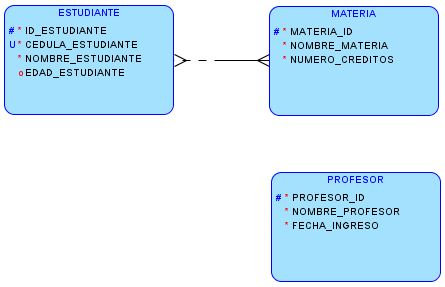
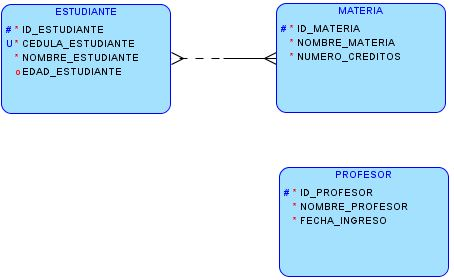
Update guide, Save and Open projects

Changed region(s): [[0.0, 0.0, 0.964, 0.4286], [0.5843, 0.5714, 0.9933, 1.0], [0.6135, 0.0, 0.9933, 0.4]]

diff --git a/README.md b/README.md
@@ -94,13 +94,14 @@ Al finalizar la guía, se espera que los estudiantes se encuentren en la capacid
     El tipo de origen *VARCHAR*  depliega los campos *Tamaño y Unidades*.
     Digite `10` como tamaño y seleccione  *CHAR* en las unidades. De esta forma, estamos declarando que la `CEDULA_ESTUDIANTE` tendrá máximo 10 caracteres.
 
-    A continuación, abra la pestaña *Identificadores Únicos* del frame de la izquierda. En esta pestaña se muestran los atributos únicos de la entidad, aquí se encuentra ya una clave única con nombre es "Estudiante PK" la cual hace referencia a la clave primaria previamente agregada.
-    Para agregar el atributo de cédula como una clave única se debe seleccionar la opción '+' y hacer doble clic en el nuevo item que se agregó a la lista el cual tiene por defecto el nombre de "Key 2", esto despliega un submenú donde se debe definir cuáles atributos harán parte de esta nueva clave única de la entidad.
-    Para agregar la cédula, se debe hacer clic sobre este atributo y posteriormente hacer clic en la flecha derecha, esto debe verse como lo muestra la siguiente figura.
+    A continuación, abra la pestaña *Identificadores Únicos* del frame de la izquierda. En esta pestaña se muestran los atributos únicos de la entidad, aquí se encuentra ya una clave única con nombre es "Estudiante PK" la cual hace referencia a la clave primaria previamente agregada, es decir, al atributido identificador.
+    Para crear una nueva clave única se debe seleccionar la opción '+', esto genera un nuevo item en la lista de claves únicas el cual tendrá por defecto el nombre de "Key 2", al hacer doble clic sobre este item se despliega un submenú donde se debe definir cuáles atributos harán parte de esta nueva clave única de la entidad.
+    Para agregar el atributo de cédula a esta nueva clave única, se debe hacer clic sobre este atributo y posteriormente hacer clic en la flecha derecha, moviendolo de la lista de la izquierda a la lista de la derecha, esto finalmente debe verse como lo muestra la siguiente figura. 
+    Aplicar los cambios.
 
     ![Alt text](images/EstudianteCedulaUnica.JPG?raw=true "Cedula Estudiante Unica")
 
-    En este momento el nuevo identificador único ya ha sido creado con el nombre "Key_2", para cambiarlo dirigirse a la pestaña *General* sobre este mismo submenú. 
+    En este momento el nuevo identificador único ya ha sido creado con el nombre "Key_2", para cambiarlo dirigirse a la pestaña *General* sobre este mismo submenú. Se sugiere el nombre de `CEDULA_UK`.
     
     > Ahora, usted deberá agregar dos nuevos atributos a la entidad `ESTUDIANTE`.  Estos atributos permiten al sistema almacenar el nombre y la edad de los estudiantes, el nombre debe ser obligatorio mientras que la edad no.
 
@@ -110,31 +111,64 @@ Al finalizar la guía, se espera que los estudiantes se encuentren en la capacid
 
   * **Relación**
 
-    Una relación es una asociación que existe entre dos entidades, una de ellas denominada como entidad origen y la otra como entidad destino, para cada entidad existe una cardinalidad. La cardinalidad define el número de ocurrencias que pueden existir de la entidad destino dada una sola ocurrencia de la entidad origen. La cardinalidad puede tomar los valores de 1:1 (uno a uno), de 1:N (1 a muchos) o de N:M (muchos a muchos). Una relación puede ser identificante o no, una relación identificante finalmente es mapeada al identificador primario de la entidad destino.
+    Una relación es una asociación que existe entre dos entidades, una de ellas denominada como entidad origen y la otra como entidad destino, para cada entidad de la relación existe una cardinalidad.La cardinalidad define el número de ocurrencias que pueden existir de la entidad destino dada una sola ocurrencia de la entidad origen. La cardinalidad puede tomar los valores de 1:1 (uno a uno), de 1:N (1 a muchos) o de N:M (muchos a muchos). 
+    Una relación puede ser identificante o no. Las relaciones identificantes finalmente son mapeada al identificador primario de la entidad destino.
 
-    > Se pide al estudiante que cree una nueva entidad para que el sistema pueda almacenar las materias que el estudiante podrá matricular, una materia tiene su identificador, un nombre y un número de creditos, siendo todos estos obligatorios. Una vez hecho esto se espera tener lo siguiente:
+    > Se pide al estudiante que cree una nueva entidad para que el sistema pueda almacenar las materias que el estudiante podrá matricular, una materia tiene su identificador, un nombre y un número de creditos, siendo todos estos obligatorios. La siguiente figura ilustra el cómo debería verse la entidad `MATERIA`.
 
     ![Alt text](images/EstudianteMateria.JPG?raw=true "Entidades Estudiante y Materia")
 
-    El sistema también require registrar en su base de datos las materias que están cursando los estudiantes, dado a que un estudiante puede cursar muchas materias y que una materia puede ser cursada por muchos estudiantes, la relación entre ambas entidades es N:M. Para crear una relación N:M se debe hacer clic en la opción de *Nueva Relación N:M* del menú de herramientas del modelo lógico, luego hacer clic sobre la entidad origen y finalmente otro clic sobre la entidad destino, abriendo de esta manera un menú donde se solicita el nombre de la relación entre ambas entidades, ingresar `ESTUDIANTE_MATERIA`, por conveniencia, el nombre de las relaciones se puede generar mediante la concatenación del nombre de ambas entidades. Una vez aceptados los cambios, se logra crear la relación entre Estudiante y Materia observando lo siguiente.
+    El sistema también require registrar en su base de datos las materias que están cursando los estudiantes, dado a que un estudiante puede cursar muchas materias y que una materia puede ser cursada por muchos estudiantes, la relación entre ambas entidades es N:M.
+    Para crear una relación N:M se debe hacer clic en la opción de *Nueva Relación N:M* del menú de herramientas del modelo lógico, luego hacer clic sobre la entidad origen y finalmente otro clic sobre la entidad destino, abriendo de esta manera un menú donde se solicita el nombre de la relación entre ambas entidades, ingresar `ESTUDIANTE_MATERIA`. Por conveniencia, el nombre de las relaciones se puede generar mediante la concatenación del nombre de ambas entidades. Una vez aceptados los cambios, se logra crear la relación entre Estudiante y Materia como lo muestra la siguiente figura.
 
     ![Alt text](images/RelacionEstudMateria.JPG?raw=true "Relación Estudiante y Materia")
 
-    > Se pide ahora al estudiante que cree una nueva entidad que le permita al sistema almacenar los profesores para poder registrar las materias que estos imparten, se sabe que una materia es impartida por un solo profesor, del profesor se solicita almancenar su nombre y fecha en la que ingresó al sistema. Una vez creada la entidad Profesor se espera tener lo siguiente.
+    > Se pide ahora al estudiante que cree una nueva entidad que le permita al sistema almacenar los profesores para poder registrar las materias que estos imparten, se sabe que una materia es impartida por un solo profesor, del profesor se solicita almancenar su nombre y fecha en la que ingresó al sistema. Una vez creada la entidad `PROFESOR` se espera tener lo siguiente.
 
     ![Alt text](images/ProfesorAgregado.JPG?raw=true "Entidades Profesor")
 
-    A diferencia de la anterior relación, una materia es impartida por solo un profesor, por tanto la relación que se debe agregar es una relación 1:N de Materia a Profesor, para ello se hace el mismo procedimiento de la relación anterior solo que en esta ocasión mediante la opción *Nueva Relación 1:N*. Al finalizar lo anterior, se obtiene lo siguiente.
+    A diferencia de la anterior relación, una materia es impartida por solo un profesor, por tanto la relación que se debe agregar es una relación 1:N de Materia a Profesor, para ello se hace el mismo procedimiento de la relación anterior solo que en esta ocasión debe hacerse mediante la opción *Nueva Relación 1:N*. Al realizr esto, se espera tener lo siguiente.
 
     ![Alt text](images/ModeloCompleto.JPG?raw=true "Relación Profesor y Materia")
 
-    Observe que al acceder a las propiedas de la entidad Materia mediante doble clic sobre esta, se ha generado un nuevo atributo cuyas propiedades no se pueden modificar, este hace referencia al atributo primario del profesor, es decir, al identificador del profesor, por tanto este nuevo atributo se convierte en una clave primaria que siempre apuntará a algún registro de la otra entidad.
+    Observe que al acceder a las propiedas de la entidad Materia mediante doble clic sobre esta, se ha generado un nuevo atributo cuyas propiedades no se pueden modificar, este hace referencia al atributo primario del profesor, es decir, al identificador del profesor, por tanto este nuevo atributo se convierte en una clave primaria que siempre apuntará a algún registro de la tabla Profesor, esto se puede evidenciar en la siguiente figura.
 
+    ![Alt text](images/MateriaClaveProfesor.JPG?raw=true "Clave foránea de Profesor en Materia")
 
-4. Guardar (exportar) un proyecto en un archivo *.dmd*
+4. **Guardar(exportar) un proyecto**
+    
+    Para guardar un proyecto se debe hacer clic en la opción *Guardar como...* del menú *Archivo*, esto despliega el submenú que se ilustra en la siguiente figura.
+
+    ![Alt text](images/Guardar.JPG?raw=true "Guardar como...")
+
+    Observe que en el campo del nombre del archivo se encuentra por defecto el caracter `/`, este debe borrarse para poder ingresar el nombre deseado del proyecto. Por ejemplo, si queremos que el proyecto tenga como nombre `guia`, en el campo se debe ingresar exactamente la palabra `guia` y no `/guia`, ya que este último genera errores al guardar. Hacer clic sobre la opción *Guardar*.
+
+    Si desea asegurarse de que el proceso de guardado ha sido realizado con éxito y sin ningún tipo de error, puede observar en la pestaña *Mensajes - Log* en la parte inferior de la pantalla donde el programa imprime cada uno de las acciones realizadas. 
+    La siguiente figura ilustra un ejemplo de los mensajes que deberían salir al  guardar correctamente el proyecto `guia`, aquí también se puede observar la ruta donde el proyecto fue guardado. Si esta pestaña no se encuentra visible hacer clic en la opción *Log* del menú *Ver*.
+
+    ![Alt text](images/GuardarLogs.JPG?raw=true "Guardar Logs")
+
+    El proceso de guardado genera una carpeta y un archivo, ambos con el nombre ingresado. En este caso, en la ruta seleccionada se crean una carpeta con nombre *guia* y un archivo llamado *guia.dmd*, tal como se ilustra en la siguiente figura.
+
+    ![Alt text](images/Archivos.JPG?raw=true "Archivos")
+
+    En la carpeta *guia* se encuentran todos los archivos necesarios para el proyecto, que en conjunto generan todo el diseño realizado. Por otro lado, el archivo *guia.dmd* es un archivo propio de Oracle, más precisamente de SQL Developer Data Modeler, en este se almacena la estructura de los datos y sus relaciones para poder ser visualizadas por la herramienta. Ambos son necesarios.
+
+5. **Abrir(importar) un proyecto**
+
+    Para abrir un proyecto, solo es necesario hacer clic en la opción *Abrir* del *Menú* y seleccionar el archivo con extensión *.dmd*, este debe estar en la mismo directorio que la carpeta que se generó al momento de guardar el proyecto. 
+    Por ejemplo, si queremos abrir el proyecto de la presente guía, se debe seleccionar el archivo *guia.dmd*, el cual debe estar en la mismo directorio de la carpeta *guia*.
+    Esto abrirá un submenú en el que se solicita seleccionar los modelos relacionales asociados al proyecto, dado a que por el momento solo se tiene el modelo relacional que el programa genera por defecto, se procede a hacer clic en *Aceptar*.
+
+    Si desea asegurarse de que el proyecto fue abierto correctamente se puede observar la pestaña logs del programa donde se esperaría ver lo que se muestra en la siguiente figura.
+
+    ![Alt text](images/AbrirLogs.JPG?raw=true "Abrir Logs")
    
-5. Subvista como gestión de entidades
+6. **Subvista como gestión de entidades**
+
+    (No estoy muy seguro si explicar esto en esta guía)
    
-6. Ingeniería a un modelo Relacional
-   
-7. Generación automática de un script *.ddl*
+7. **Modelo Relacional**
+    
+  
+8. Generación automática de un script *.ddl*
